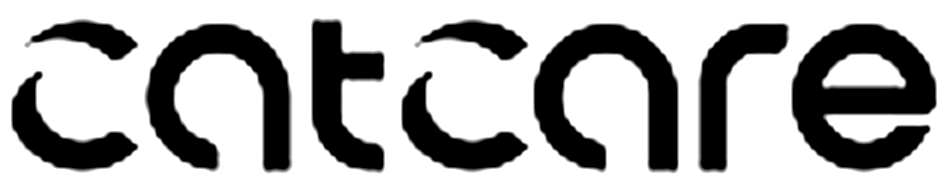
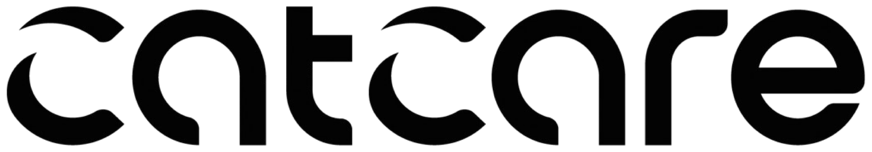
fix: 워드마크를 splash.png의 고해상도 "catcare" 텍스트로 교체
직전 두 커밋(59ddcbb, bb9c786)은 158×32 저해상도 소스를 potrace 벡터 트레이싱/
샤프닝으로 키워보려 했지만, 둘 다 원본 해상도 자체가 너무 낮아 글자 형태가 뭉개지거나
(벡터 트레이싱) 엣지에 헤일로가 생겨 "이글거리는"(샤프닝 아티팩트) 결과만 나왔음
(사용자 확인).

assets/splash.png(1024×1024)에 "catcare" 텍스트가 정확하고 선명하게 포함되어 있는
것을 확인 — 이 안에서 텍스트 영역의 진짜 알파 채널을 역산(검정 텍스트 + 배경색
블렌딩 공식 역연산)해서 872×152로 타이트하게 크롭. 벡터 재해석이나 샤프닝 없이
원본 해상도를 그대로 활용하므로 아티팩트가 없음.

- assets/wordmark.png: 872×152로 교체
- Logo.tsx: WORDMARK_ASPECT_RATIO를 새 에셋 비율(872/152)에 맞게 갱신 — 비율이
  맞지 않으면 로고가 찌그러짐

diff --git a/src/components/Logo.tsx b/src/components/Logo.tsx
@@ -1,15 +1,19 @@
 // src/components/Logo.tsx
 //
 // CatCare 브랜드 로고. 웹에서는 /logo.svg (postbuild가 dist로 복사) 를 사용한다.
-// 네이티브는 wordmark.png(assets/wordmark.png, 158×32)를 쓴다 — 이전엔 "CatCare" 텍스트
+// 네이티브는 wordmark.png(assets/wordmark.png, 872×152)를 쓴다 — 이전엔 "CatCare" 텍스트
 // fallback이었는데, 로그인/로딩 화면에도 실제 워드마크가 보이도록 이미지로 교체.
+// wordmark.png는 assets/splash.png(1024×1024, "catcare" 텍스트가 정확하고 선명하게 포함된
+// 고해상도 원본)에서 텍스트 영역만 알파 채널로 복원해 크롭한 것 — 기존 158×32 소스는
+// 해상도가 너무 낮아 업스케일(벡터 트레이싱/샤프닝 모두)할 때마다 글자 형태가 뭉개지거나
+// 아티팩트(헤일로)가 생겨서 splash.png의 원본 해상도를 직접 활용하는 쪽으로 교체함.
 
 import React from 'react';
 import { Image, View, Text, StyleSheet, Platform } from 'react-native';
 import { colors } from '../utils/theme';
 
-// wordmark.png의 실제 비율(158×32) 그대로 사용 — 다른 비율로 늘리면 로고가 찌그러짐.
-const WORDMARK_ASPECT_RATIO = 158 / 32;
+// wordmark.png의 실제 비율(872×152) 그대로 사용 — 다른 비율로 늘리면 로고가 찌그러짐.
+const WORDMARK_ASPECT_RATIO = 872 / 152;
 
 type LogoProps = {
   height?: number;
